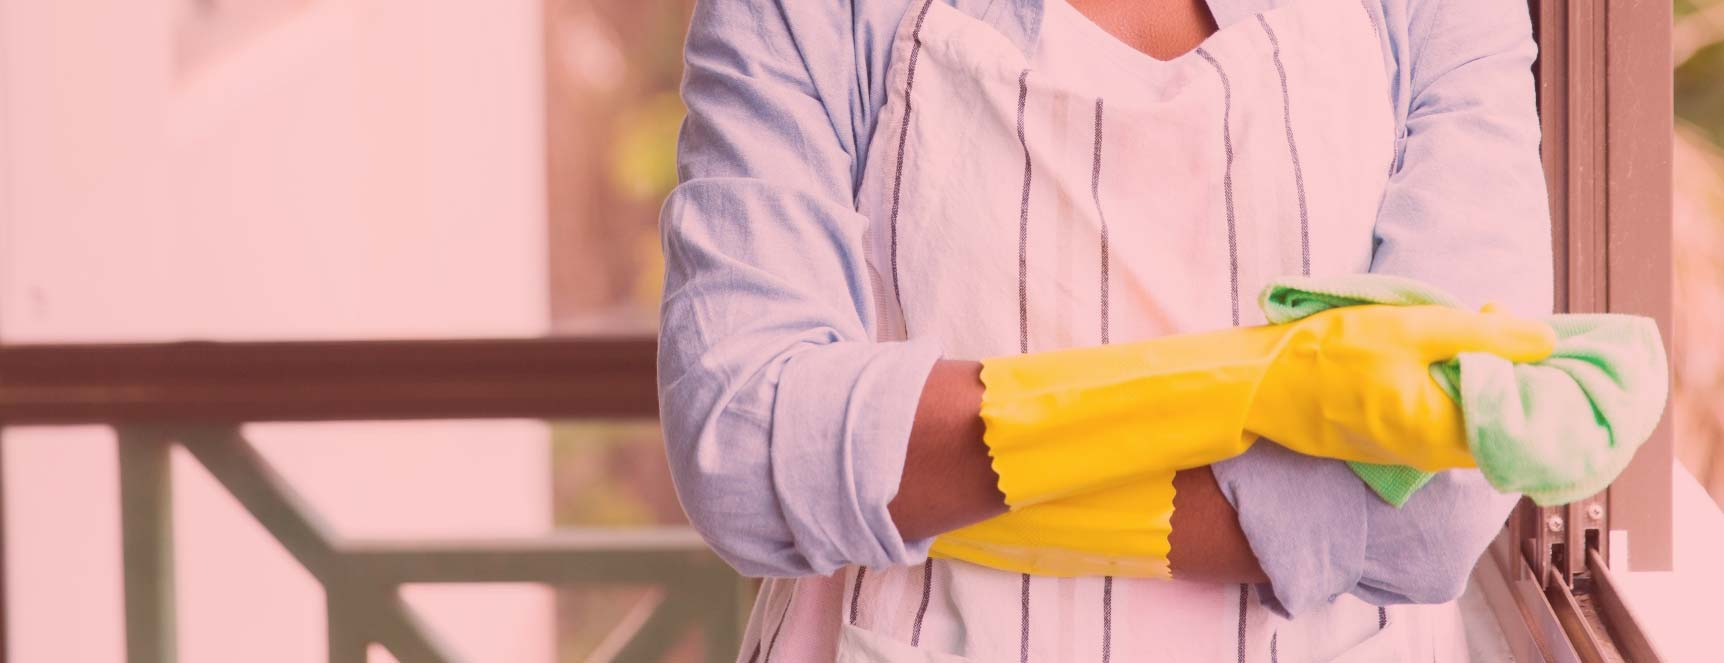
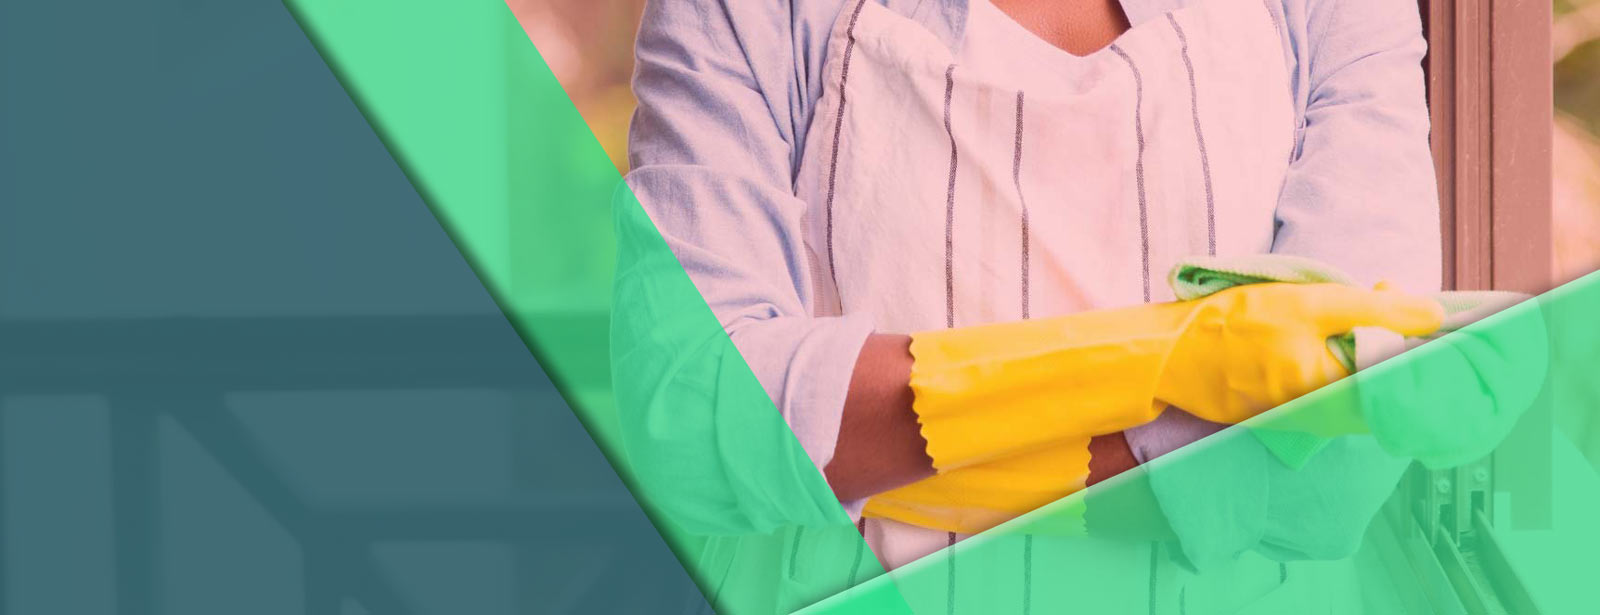
fixing homepage and adding dernieres offrres

diff --git a/app/assets/stylesheets/style.css.scss b/app/assets/stylesheets/style.css.scss
@@ -1085,7 +1085,7 @@ Heading
 .heading span.left{
 	position: absolute;
 	padding:0;
-	width: 60px;
+	width: 100px;
 	height: 3px;
 	bottom: 0;
 	left: 0;	
@@ -1713,7 +1713,7 @@ Ui to top
 	}
 }
 
-@media (min-width: 768px) and (max-width: 979px) {
+@media (min-width: 770px) and (max-width: 979px) {
 	.navbar .nav-collapse .nav li{
 		display:none;
 	}
@@ -1731,6 +1731,10 @@ Ui to top
 		width:400px;
 		float:left;		
 	}	
+
+	body{
+		margin-top: 50px;
+	}
 	.slider-wrapper{
 		width:113px;
 		height:161px;

diff --git a/app/assets/stylesheets/pages.scss b/app/assets/stylesheets/pages.scss
@@ -6,7 +6,7 @@
 .jumbotron{
 	position:relative;
 	background: #000 image-url("jumbotron/jumbotron.jpeg") center center;
-	width: 100%;
+	/*width: 100%;*/
 	height: 450px;
 	background-size: cover;
 	overflow: hidden;
@@ -134,8 +134,9 @@ hr{
 @media (max-width: 768px) {
 
   body{
-    margin-top: 90px !important;
+    margin-top: 85px !important;
   }
+
   .featurette-heading {
     font-size: 25px;
   }

diff --git a/app/assets/stylesheets/application.css.scss b/app/assets/stylesheets/application.css.scss
@@ -28,6 +28,17 @@
 	}
 }
 
+#offers{
+	margin-top: 30px;
+}
+
+.division{
+	width: 50%;
+	border-right: 1px solid gray;
+	padding: 40px 20px;
+	min-height: 100px;
+}
+
 .call-btn{
 	margin-top: 24px;
 	padding: 6px !important;

diff --git a/config/routes.rb b/config/routes.rb
@@ -37,6 +37,8 @@ Rails.application.routes.draw do
     get 'employeur/nouvelle_offre', to: "job_propositions#new", as: 'new_job_proposition'
     post 'employeur/nouvelle_offre/sauvegarder', to: "job_propositions#create", as: 'job_propositions'
     get 'employeur/nouvelle_offre/confirmation', to: "job_propositions#confirm", as: 'job_proposition_confirmation'
+
+    get 'derniere_offres', to: "job_propositions#index", as: "offers"
   # Fin Job Propostion
 
 
